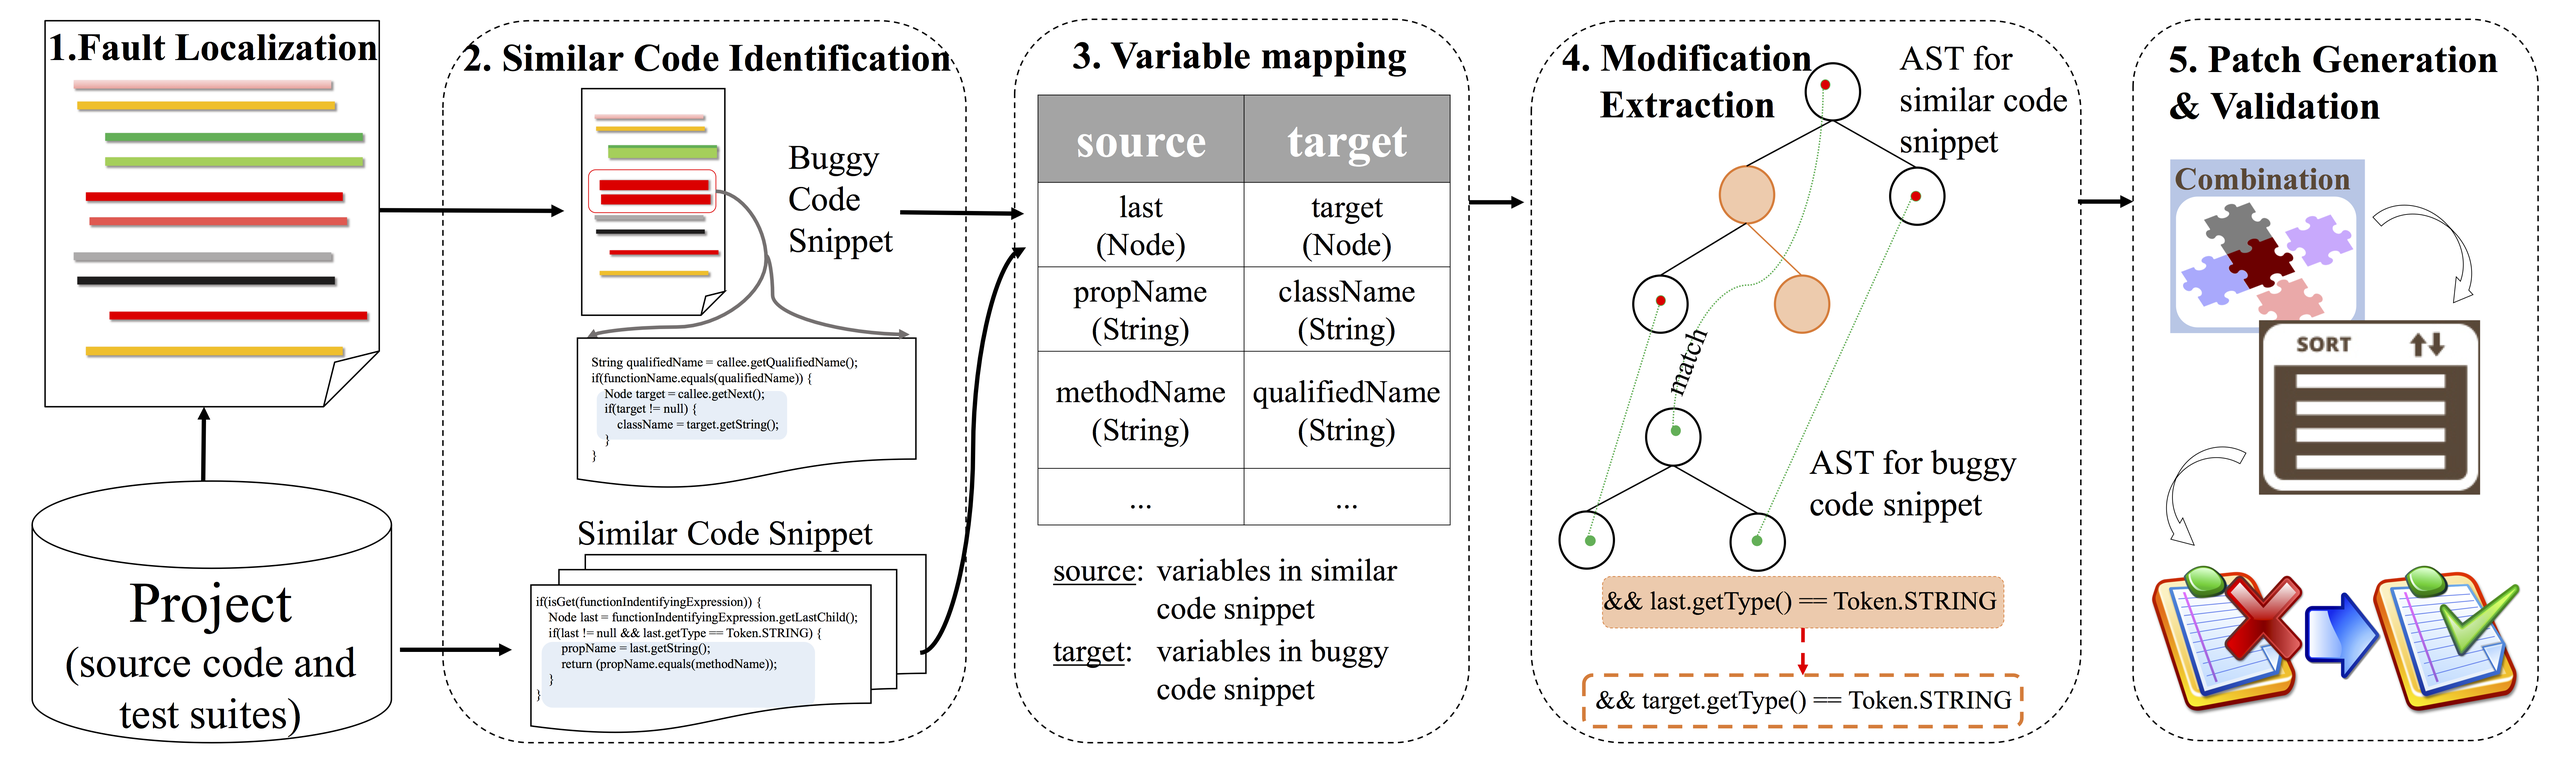
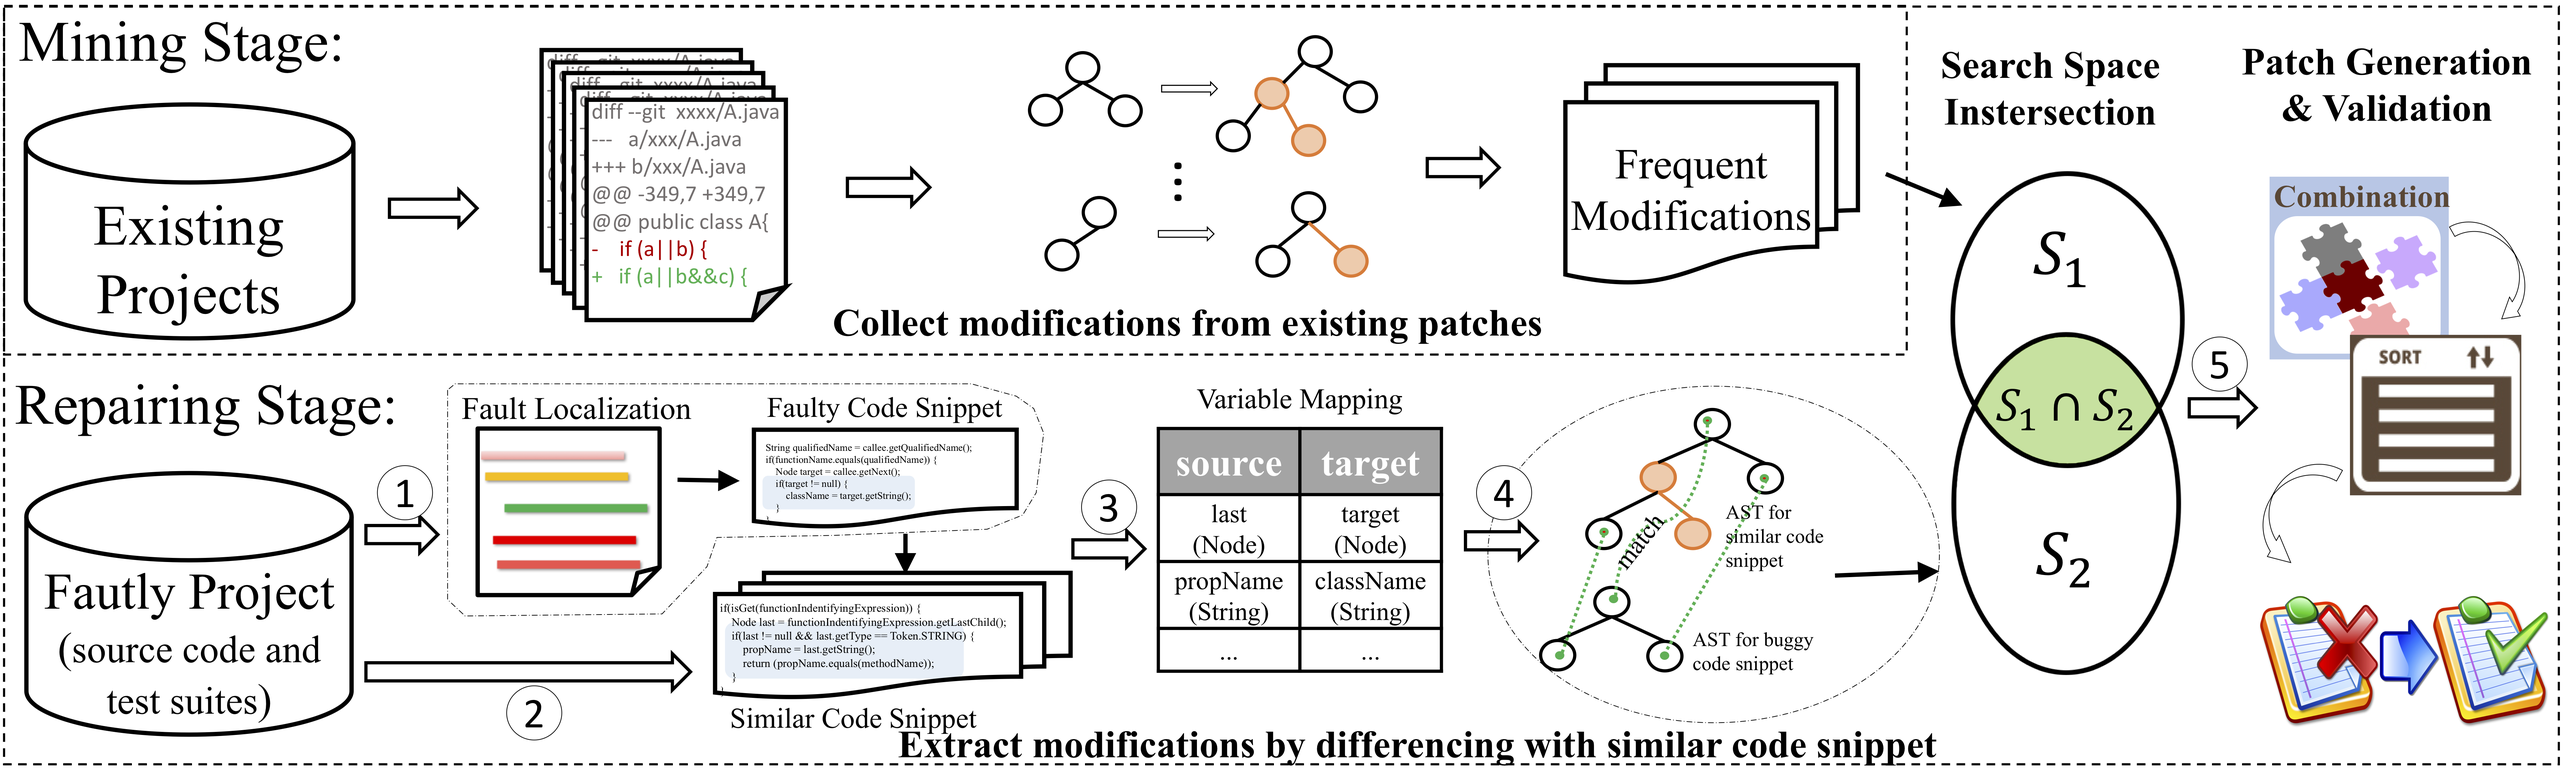
update readme

diff --git a/README.md b/README.md
@@ -8,15 +8,21 @@
 
 ## I. Introduction
 
-*SimFix* is an automatic program repair technique, which leverages similar code snippets in the same project to generate patches. The following figure is the workflow of our approach.
+*SimFix* is an automatic program repair technique, which leverages exisiting patches from other projects and similar code snippets in the same project to generate patches. The following figure is the workflow of our approach.
 
 ![The workflow of this technique.\label{workflow}](./doc/figure/overview.png)
 
-1. **Fault Localization** : obtain a ranking list of candidate buggy statements.
-2. **Similar Code Identification** : identify the similarity between buggy code snippet and each candidate similar code snippet by leveraging three similarity metrics, according to which we obtain a list of candidate similar snippet with decending order of similarity value.
-3. **Variable Mapping** : establish the mapping relationship between variables in buggy and similar code snippet by leveraging similarity metrics and then obtain a mapping table.
-4. **Modification Extraction** : extract code modifications to buggy code snippet via AST (Abstract Syntax Tree) matching and differencing, during which the variable mapping table will be used.
-5. **Patch Generation & Validation** : generate repair patches by applying extracted code modifications to the buggy code snippet with combining and ranking whose modifications, then using the test suite to validate the correctness for each candidate patch.
+#### Mining Stage
+
+1. mine repair patterns from existing open-source projects, after which we can obtain a set of frequent repair patterns. Those patterns can be reused for other repairing scenarios as well.
+
+#### Repairing Stage
+
+1. **Fault Localization** : obtain a ranking list of candidate faulty statements and extract corresponding code snippets.
+2. **Donor Snippet Identification** : identify the similarity between faulty code snippet and each candidate similar code snippet by leveraging three similarity metrics, according to which we obtain a list of candidate similar snippets with decending order of similarity value.
+3. **Variable Mapping** : establish the mapping relationship between variables in faulty and similar code snippets by leveraging similarity metrics and then obtain a mapping table, based on which the variables in the donor code snippet will be replaced with the corresponding variables.
+4. **Modification Extraction and Intersection** : extract code modifications to faulty code snippet via AST (Abstract Syntax Tree) matching and differencing against the donor snippet, and then the frequent patterns from the mining stage will be used to take intersection with those modifications to further ruled out invalid ones.
+5. **Patch Generation & Validation** : generate repair patches by applying extracted code modifications to the faulty code snippet with combining and ranking whose modifications, then using the test suite to validate the correctness of candidate patches until a correct patch found or timeout.
 
 ## II. Environment
 
